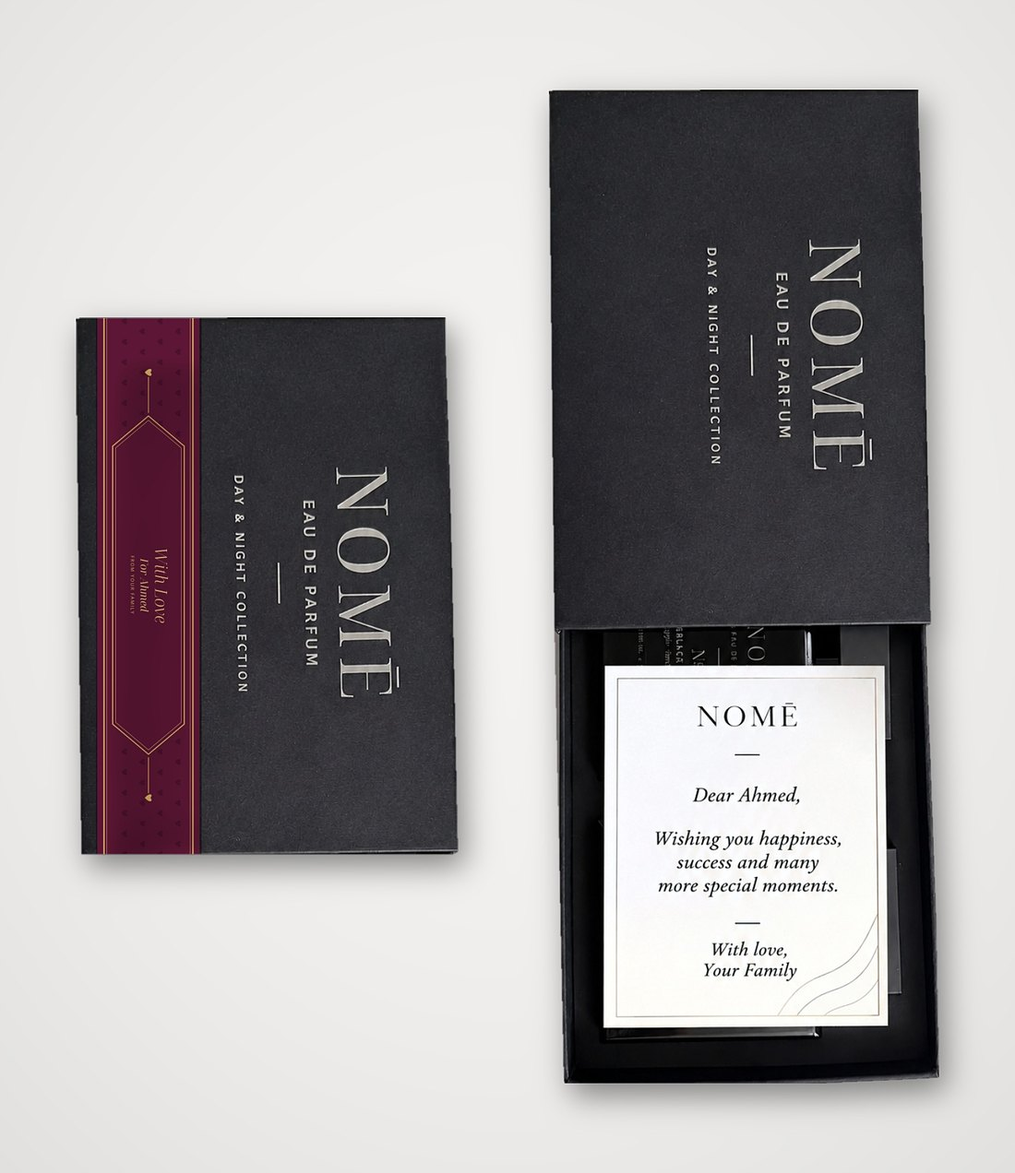
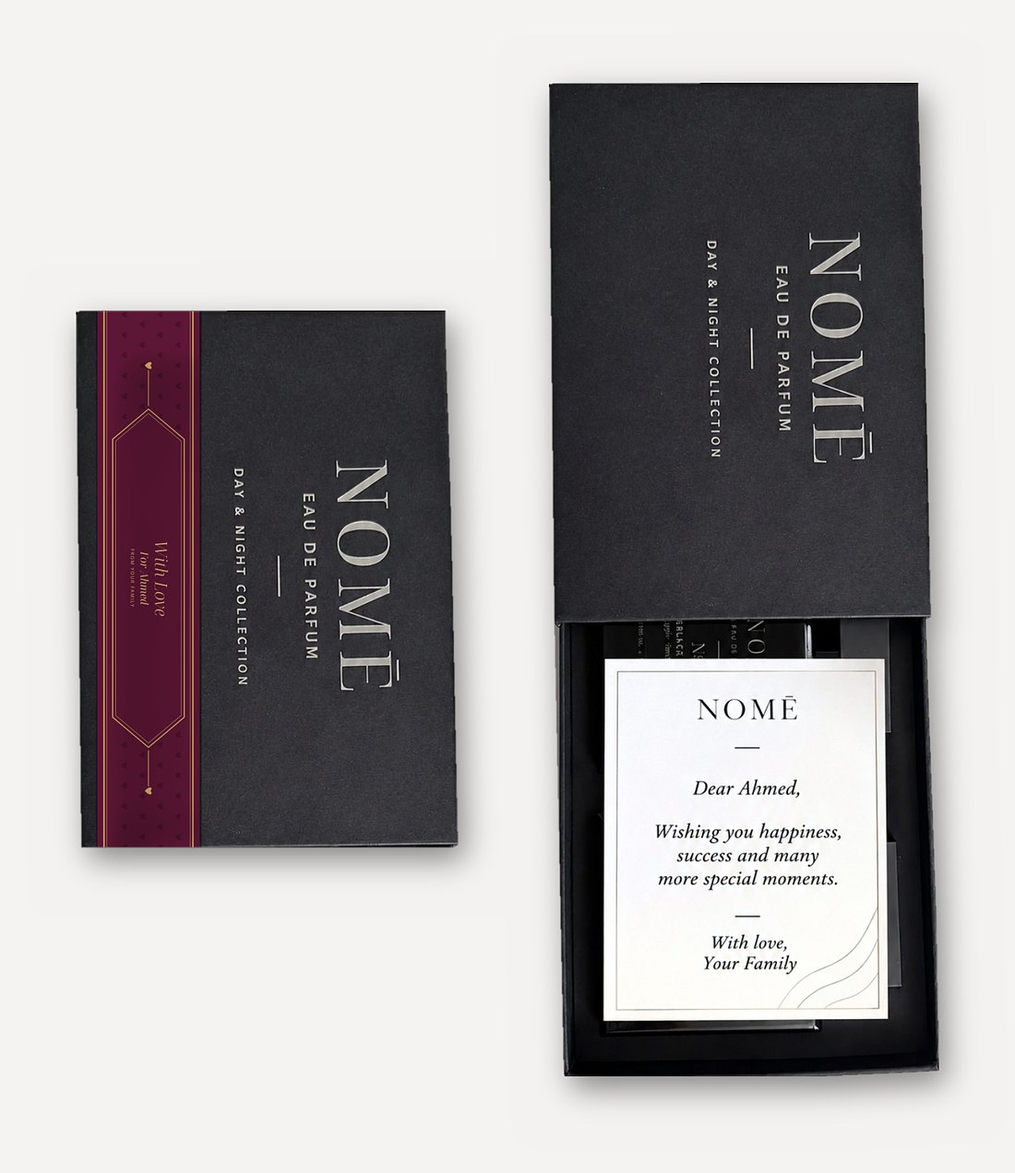
Hero: red band + white card image; A6 portrait card with Dear/sign-off; one-tap band+card print PDF
- Hero now shows the closed box with the With Love band beside the open box with the white message card
- Card redesigned to match: Dear <name>, message, sign-off, A6 portrait 105x148, white
- Personalise: card sign-off field; WhatsApp order includes From: line
- Band Maker: 'Add and download PDF' (band + card for that order), per-order PDF button, sign-off field

Claude-Session: https://claude.ai/code/session_01CbDgQStipMz1LxKXX1LKnJ

diff --git a/band-maker.html b/band-maker.html
@@ -25,7 +25,7 @@ textarea{padding:10px 12px;min-height:110px}
 .order{display:flex;flex-direction:column;gap:8px;border-top:1px solid var(--line);padding-top:12px}
 .order .pv{aspect-ratio:210/40;width:100%}
 .order .pv svg{width:100%;height:100%;display:block}
-.order .cpv{aspect-ratio:148/105;width:min(100%,320px)}
+.order .cpv{aspect-ratio:105/148;width:min(100%,200px)}
 .order .cpv svg{width:100%;height:100%;display:block}
 .meta{font-size:14px;color:var(--muted)}
 .meta b{color:var(--text);font-weight:600}
@@ -40,8 +40,8 @@ textarea{padding:10px 12px;min-height:110px}
 
 <div class="card">
 <h2>1. Paste a WhatsApp order</h2>
-<label for="paste">Order message<textarea id="paste" placeholder="Band: Eid Mubarak&#10;Name: For Ahmed&#10;Message: With love from Sara&#10;Card: Your full message for the card (always last)"></textarea></label>
-<div class="row"><button class="btn" id="addPaste" type="button">Add from message</button><span class="status" id="pasteMsg"></span></div>
+<label for="paste">Order message<textarea id="paste" placeholder="Band: Eid Mubarak&#10;Name: Ahmed&#10;Message: With love from Sara&#10;From: With love, Your Family&#10;Card: Your full message for the card (always last)"></textarea></label>
+<div class="row"><button class="btn" id="addPastePdf" type="button">Add and download PDF</button><button class="btn line" id="addPaste" type="button">Add to list only</button><span class="status" id="pasteMsg"></span></div>
 </div>
 
 <div class="card">
@@ -52,6 +52,7 @@ textarea{padding:10px 12px;min-height:110px}
 <label for="l1">Name line<input id="l1" maxlength="26" placeholder="For Ahmed"></label>
 <label for="l2">Message<input id="l2" maxlength="38" placeholder="With love from Sara"></label>
 <label for="card" style="grid-column:1/-1">Message card (inside the box, optional)<textarea id="card" maxlength="300" placeholder="Full message for the A6 card"></textarea></label>
+<label for="sign" style="grid-column:1/-1">Card sign-off<input id="sign" maxlength="40" placeholder="With love, Your Family"></label>
 <label for="ref">Order ref / customer (not printed on the band)<input id="ref" placeholder="e.g. Sara, 0501234567"></label>
 </div>
 <div class="row"><button class="btn line" id="addManual" type="button">Add band</button></div>
@@ -72,7 +73,7 @@ textarea{padding:10px 12px;min-height:110px}
 </div>
 <p class="status" id="pdfMsg"></p>
 <p class="meta">Each band is one page: 554 × 66 mm with 3 mm bleed, crop marks and dashed fold marks outside the cut line. Print on 300 gsm card, matte lamination, cut to 528 × 40 mm, score the fold marks. The white flap on the left is the glue area.</p>
-<p class="meta">Orders with a message card get a second page straight after the band: 148 × 105 mm (A6) with 3 mm bleed and crop marks. Print on 350 gsm card, matte, cut to 148 × 105 mm.</p>
+<p class="meta">Orders with a message card get a second page straight after the band: 105 × 148 mm (A6 portrait) with 3 mm bleed and crop marks. Print on 350 gsm white card, matte, cut to 105 × 148 mm (A6 portrait).</p>
 </div>
 </div>
 
@@ -95,11 +96,11 @@ function render() {
   if (!orders.length) { $('list').innerHTML = '<p class="empty">No bands yet.</p>'; return; }
   $('list').innerHTML = orders.map((o, i) => `<div class="order">
     <div class="pv">${B.bandSVG(o.design, o.line1, o.line2, 'front')}</div>
-    ${o.card ? `<div class="cpv">${B.cardSVG(o.line1, o.card, 'front', $('ctheme').value)}</div>` : ''}
+    ${o.card ? `<div class="cpv">${B.cardSVG(o.line1, o.card, 'front', $('ctheme').value, o.sign)}</div>` : ''}
     <div class="row" style="justify-content:space-between">
       <span class="meta"><b>${esc(o.no || ('#' + (i + 1)))} · ${esc(B.BY_ID[o.design].name)}</b> × ${o.qty}${o.card ? ' · + card' : ''}${o.ref ? ' · ' + esc(o.ref) : ''}</span>
       <select data-status="${i}" aria-label="Status for ${esc(o.no || '#' + (i + 1))}">${STATUSES.map(s => `<option${(o.status || 'Received') === s ? ' selected' : ''}>${s}</option>`).join('')}</select>
-      <span class="row"><button class="btn line" data-up="${i}" type="button" aria-label="Move up">↑</button><button class="btn line" data-del="${i}" type="button">Remove</button></span>
+      <span class="row"><button class="btn line" data-pdf="${i}" type="button">PDF</button><button class="btn line" data-up="${i}" type="button" aria-label="Move up">↑</button><button class="btn line" data-del="${i}" type="button">Remove</button></span>
     </div></div>`).join('');
   B.fit($('list'));
 }
@@ -107,7 +108,8 @@ try { $('ctheme').value = localStorage.getItem('nome_card_theme') || 'white'; } 
 $('ctheme').addEventListener('change', () => { try { localStorage.setItem('nome_card_theme', $('ctheme').value); } catch (e) {} render(); });
 $('list').addEventListener('change', e => { const s = e.target.closest('[data-status]'); if (!s) return; orders[+s.dataset.status].status = s.value; save(); });
 $('list').addEventListener('click', e => {
-  const d = e.target.closest('[data-del]'), u = e.target.closest('[data-up]');
+  const d = e.target.closest('[data-del]'), u = e.target.closest('[data-up]'), pp = e.target.closest('[data-pdf]');
+  if (pp) { makePDF([+pp.dataset.pdf]); return; }
   if (d) { orders.splice(+d.dataset.del, 1); save(); render(); }
   if (u && +u.dataset.up > 0) { const i = +u.dataset.up; [orders[i - 1], orders[i]] = [orders[i], orders[i - 1]]; save(); render(); }
 });
@@ -116,38 +118,44 @@ function findDesign(name) {
   return B.DESIGNS.find(d => d.name.toLowerCase().replace(/[’']/g, '') === n) ||
          B.DESIGNS.find(d => n && d.name.toLowerCase().replace(/[’']/g, '').startsWith(n.slice(0, 5)));
 }
-$('addPaste').onclick = () => {
+function addFromPaste() {
   const t = $('paste').value;
   const get = k => { const m = t.match(new RegExp('^\\s*' + k + '\\s*:\\s*(.*)$', 'mi')); return m ? m[1].trim() : ''; };
   const d = findDesign(get('Band'));
   if (!d) { $('pasteMsg').textContent = 'Could not find "Band:" in the message.'; return; }
   const clean = v => (v === '-' ? '' : v);
   const cm = t.match(/^\s*Card\s*:\s*([\s\S]*)$/mi), card = cm ? clean(cm[1].trim()).slice(0, 300) : '';
-  orders.push({ no: nextNo(), status: 'Received', design: d.id, line1: clean(get('Name')), line2: clean(get('Message')), card, qty: 1, ref: '' });
+  orders.push({ no: nextNo(), status: 'Received', design: d.id, line1: clean(get('Name')), line2: clean(get('Message')), sign: clean(get('From')).slice(0, 40), card, qty: 1, ref: '' });
   save(); render(); $('paste').value = ''; $('pasteMsg').textContent = 'Added: ' + d.name;
-};
+  return orders.length - 1;
+}
+$('addPaste').onclick = () => { addFromPaste(); };
+$('addPastePdf').onclick = () => { const i = addFromPaste(); if (i !== undefined) makePDF([i]); };
 $('addManual').onclick = () => {
-  orders.push({ no: nextNo(), status: 'Received', design: $('design').value, line1: $('l1').value.trim(), line2: $('l2').value.trim(), card: $('card').value.trim(), qty: Math.max(1, +$('qty').value || 1), ref: $('ref').value.trim() });
-  save(); render(); $('l1').value = $('l2').value = $('ref').value = $('card').value = ''; $('qty').value = 1;
+  orders.push({ no: nextNo(), status: 'Received', design: $('design').value, line1: $('l1').value.trim(), line2: $('l2').value.trim(), card: $('card').value.trim(), sign: $('sign').value.trim(), qty: Math.max(1, +$('qty').value || 1), ref: $('ref').value.trim() });
+  save(); render(); $('l1').value = $('l2').value = $('ref').value = $('card').value = $('sign').value = ''; $('qty').value = 1;
 };
 $('clear').onclick = () => { if (orders.length && confirmClear()) { orders = []; save(); render(); } };
 function confirmClear() { $('clear').textContent = 'Tap again to clear'; if ($('clear').dataset.armed) { delete $('clear').dataset.armed; $('clear').textContent = 'Clear all'; return true; } $('clear').dataset.armed = 1; setTimeout(() => { delete $('clear').dataset.armed; $('clear').textContent = 'Clear all'; }, 3000); return false; }
 
-$('pdf').onclick = async () => {
-  if (!orders.length) { $('pdfMsg').textContent = 'Add at least one band first.'; return; }
-  const total = orders.reduce((a, o) => a + (o.qty || 1) * (o.card ? 2 : 1), 0);
+async function makePDF(idx) {
+  const sel = idx ? idx.map(i => orders[i]) : orders;
+  if (!sel.length) { $('pdfMsg').textContent = 'Add at least one band first.'; return; }
+  const total = sel.reduce((a, o) => a + (o.qty || 1) * (o.card ? 2 : 1), 0);
   $('pdf').disabled = true; $('pdfMsg').textContent = 'Making PDF…';
   try {
     await document.fonts.ready;
-    let n = 0;
-    const list = orders.map((o, i) => ({ ...o, cardName: o.line1, label: `${$('batch').value} · ${o.no || '#' + (i + 1)} · ${B.BY_ID[o.design].name} · ${o.line1 || ''}${o.qty > 1 ? ' · ×' + o.qty : ''}` }));
+    const list = sel.map(o => ({ ...o, cardName: o.line1, cardSign: o.sign || '', label: `${$('batch').value} · ${o.no} · ${B.BY_ID[o.design].name} · ${o.line1 || ''}${o.qty > 1 ? ' · ×' + o.qty : ''}` }));
     const pdf = await B.exportPDF(list, { fontBase: 'fonts/', dpi: 500, cardTheme: $('ctheme').value, onProgress: p => { $('pdfMsg').textContent = `Making PDF… ${p} of ${total}`; } });
-    pdf.save(`${$('batch').value.replace(/[^\w\-]+/g, '_')}_${total}_pages.pdf`);
-    orders.forEach(o => { if (!o.status || o.status === 'Received') o.status = 'Artwork ready'; }); save(); render();
-    $('pdfMsg').textContent = `Done: ${total} page${total > 1 ? 's' : ''} (bands and cards). Send the PDF to the printer, then set the status to "Sent to printer".`;
+    const name = sel.length === 1 ? `${sel[0].no}_${(sel[0].line1 || 'order').replace(/[^\w\-]+/g, '_')}` : `${$('batch').value.replace(/[^\w\-]+/g, '_')}_${total}_pages`;
+    pdf.save(name + '.pdf');
+    sel.forEach(o => { if (!o.status || o.status === 'Received') o.status = 'Artwork ready'; }); save(); render();
+    $('pdfMsg').textContent = `Done: ${total} page${total > 1 ? 's' : ''} (band${sel.some(o => o.card) ? ' + card' : ''}). Send the PDF to the printer, then set the status to "Sent to printer".`;
+    $('pdfMsg').scrollIntoView({ behavior: 'smooth', block: 'center' });
   } catch (e) { $('pdfMsg').textContent = 'Something went wrong: ' + e.message; }
   $('pdf').disabled = false;
-};
+}
+$('pdf').onclick = () => makePDF();
 render();
 document.fonts.ready.then(render);
 </script>

diff --git a/js/bands.js b/js/bands.js
@@ -175,8 +175,8 @@
   }
 
 
-  /* ---------- message card (A6 landscape, sits on top of the bottles) ---------- */
-  const CW = 148, CH = 105, CWB = CW + 2 * BLEED, CHB = CH + 2 * BLEED, CSW = CWB + 2 * SLUG, CSH = CHB + 2 * SLUG;
+  /* ---------- message card (A6 portrait 105 x 148 mm, sits on top of the bottles) ---------- */
+  const CW = 105, CH = 148, CWB = CW + 2 * BLEED, CHB = CH + 2 * BLEED, CSW = CWB + 2 * SLUG, CSH = CHB + 2 * SLUG;
   let mctx;
   function measure(text, font) { mctx = mctx || document.createElement('canvas').getContext('2d'); mctx.font = font; return mctx.measureText(text).width; }
   function wrap(text, size, maxW) {
@@ -192,34 +192,60 @@
     while (out.length && !out[out.length - 1]) out.pop();
     return out;
   }
-  const CARD_THEMES = { white: { bg: '#FFFFFF', ink: '#1A1A1D', name: '#0D0D0F' }, black: { bg: '#121215', ink: '#D3D5DA', name: '#FFFFFF' } };
-  function cardInner(name, message, theme) {
-    const T = CARD_THEMES[theme] || CARD_THEMES.white, cx = CWB / 2, ink = T.ink, B = BLEED;
+  const CARD_THEMES = {
+    white: { bg: '#FFFFFF', ink: '#141416', soft: '#3A3A40', frame: '#B4B4BA' },
+    black: { bg: '#121215', ink: '#F2F2F4', soft: '#D3D5DA', frame: '#6E6E76' }
+  };
+  const isArabic = t => /[-ۿ]/.test(t || '');
+  function greeting(name) {
+    const n = String(name || '').trim().replace(/^for\s+/i, '');
+    if (!n) return '';
+    return isArabic(n) ? n + '،' : 'Dear ' + n + ',';
+  }
+  function signLines(sign) {
+    const t = String(sign || '').trim(); if (!t) return [];
+    if (t.includes('\n')) return t.split(/\r?\n/).map(x => x.trim()).filter(Boolean).slice(0, 2);
+    const i = t.indexOf(','); return i > 0 && i < t.length - 1 ? [t.slice(0, i + 1), t.slice(i + 1).trim()] : [t];
+  }
+  function cardInner(name, message, theme, sign) {
+    const T = CARD_THEMES[theme] || CARD_THEMES.white, cx = CWB / 2, B = BLEED;
+    const it = (y, txt, size, fill, max) => `<text x="${cx}" y="${f2(y)}"${max ? ` data-max="${max}"` : ''} text-anchor="middle" font-family="'NSD', 'ARQ', serif" font-style="italic" font-weight="300" font-size="${f2(size)}" fill="${fill}" dir="auto">${esc(txt)}</text>`;
     let s = `<rect width="${CWB}" height="${CHB}" fill="${T.bg}"/>`;
-    s += `<rect x="${B + 6}" y="${B + 6}" width="${CW - 12}" height="${CH - 12}" fill="none" stroke="${ink}" stroke-width=".25" opacity=".55"/>`;
-    s += `<text x="${cx}" y="${B + 17}" text-anchor="middle" font-family="'NSD', serif" font-weight="300" font-size="6.2" letter-spacing="1.3" fill="${ink}">NOMĒ</text>`;
-    s += `<line x1="${cx - 5}" y1="${B + 21}" x2="${cx + 5}" y2="${B + 21}" stroke="${ink}" stroke-width=".25"/>`;
-    let top = B + 25, bottom = B + CH - 12;
-    if (name) { s += `<text x="${cx}" y="${B + 33}" text-anchor="middle" font-family="'NSD', 'ARQ', serif" font-size="7.2" fill="${T.name}" data-max="110" dir="auto">${esc(name)}</text>`; top = B + 38; }
-    let size = 5.2, lines = wrap(message, size, 112);
-    while (size > 2.9 && lines.length * size * 1.45 > bottom - top) { size -= .2; lines = wrap(message, size, 112); }
-    const lh = size * 1.45, y0 = top + (bottom - top - lines.length * lh) / 2 + size;
-    lines.forEach((l, i) => { s += `<text x="${cx}" y="${f2(y0 + i * lh)}" text-anchor="middle" font-family="'NSD', 'ARQ', serif" font-style="italic" font-weight="300" font-size="${f2(size)}" fill="${ink}" dir="auto">${esc(l)}</text>`; });
-    s += `<text x="${cx}" y="${B + CH - 9}" text-anchor="middle" font-family="'OS', sans-serif" font-size="2" letter-spacing=".9" fill="${ink}" opacity=".7">DAY &amp; NIGHT COLLECTION</text>`;
+    s += `<rect x="${B + 5}" y="${B + 5}" width="${CW - 10}" height="${CH - 10}" fill="none" stroke="${T.frame}" stroke-width=".3"/>`;
+    // waves, bottom right
+    const wx = B + CW - 5, wy = B + CH - 5;
+    for (let k = 0; k < 3; k++) { const o = k * 3.2; s += `<path d="M${f2(wx - 30 - o)} ${f2(wy)} C ${f2(wx - 18 - o)} ${f2(wy - 4 - o)}, ${f2(wx - 14)} ${f2(wy - 14 - o)}, ${f2(wx)} ${f2(wy - 24 - o)}" fill="none" stroke="${T.frame}" stroke-width=".22"/>`; }
+    s += `<text x="${cx}" y="${B + 22}" text-anchor="middle" font-family="'NSD', serif" font-weight="300" font-size="8" letter-spacing="1.6" fill="${T.ink}">NOMĒ</text>`;
+    s += `<line x1="${cx - 4.5}" y1="${B + 30}" x2="${cx + 4.5}" y2="${B + 30}" stroke="${T.ink}" stroke-width=".3"/>`;
+    const g = greeting(name), sl = signLines(sign);
+    const areaTop = B + 38, areaBot = B + CH - 14;
+    let size = 5.4, lines, total;
+    const measureBlock = () => { lines = wrap(message, size, 80); const lh = size * 1.42; total = (g ? 5.6 + 8 : 0) + lines.length * lh + (sl.length ? 8 + 9 + sl.length * 7 : 0); };
+    measureBlock();
+    while (size > 3.2 && total > areaBot - areaTop) { size -= .2; measureBlock(); }
+    const lh = size * 1.42;
+    let y = areaTop + Math.max(0, (areaBot - areaTop - total) / 2);
+    if (g) { s += it(y + 5.6 * .8, g, 5.6, T.ink, 84); y += 5.6 + 8; }
+    lines.forEach((l, i) => { s += it(y + size * .8 + i * lh, l, size, T.ink); });
+    y += lines.length * lh;
+    if (sl.length) {
+      y += 6; s += `<line x1="${cx - 4.5}" y1="${f2(y)}" x2="${cx + 4.5}" y2="${f2(y)}" stroke="${T.ink}" stroke-width=".3"/>`; y += 9;
+      sl.forEach((l, i) => { s += it(y + 5.2 * .8 + i * 7, l, 5.2, T.ink, 84); });
+    }
     return s;
   }
-  function cardSVG(name, message, mode, theme) {
+  function cardSVG(name, message, mode, theme, sign) {
     const vb = mode === 'full' ? `0 0 ${CWB} ${CHB}` : `${BLEED} ${BLEED} ${CW} ${CH}`;
-    return `<svg xmlns="http://www.w3.org/2000/svg" viewBox="${vb}" preserveAspectRatio="xMidYMid meet">${cardInner(name, message, theme)}</svg>`;
+    return `<svg xmlns="http://www.w3.org/2000/svg" viewBox="${vb}" preserveAspectRatio="xMidYMid meet">${cardInner(name, message, theme, sign)}</svg>`;
   }
-  function cardSheetSVG(name, message, label, fontStyle, theme) {
+  function cardSheetSVG(name, message, label, fontStyle, theme, sign) {
     const t0x = SLUG + BLEED, t0y = SLUG + BLEED, t1x = t0x + CW, t1y = t0y + CH;
     let m = '';
     const ln = (a, b, c, d2) => `<line x1="${f2(a)}" y1="${f2(b)}" x2="${f2(c)}" y2="${f2(d2)}" stroke="#000" stroke-width=".2"/>`;
     for (const [x, y, dx, dy] of [[t0x, t0y, -1, -1], [t1x, t0y, 1, -1], [t0x, t1y, -1, 1], [t1x, t1y, 1, 1]]) m += ln(x, y + dy * 4, x, y + dy * 9) + ln(x + dx * 4, y, x + dx * 9, y);
-    m += `<text x="${t0x}" y="${SLUG - 4.5}" font-family="'OS', sans-serif" font-size="2.4" fill="#000">${esc(label)}</text>`;
-    m += `<text x="${t1x}" y="${CSH - 3}" text-anchor="end" font-family="'OS', sans-serif" font-size="2" fill="#000">Message card · 148 × 105 mm trim · 3 mm bleed · 350 gsm · matte</text>`;
-    return `<svg xmlns="http://www.w3.org/2000/svg" width="${CSW}mm" height="${CSH}mm" viewBox="0 0 ${CSW} ${CSH}">${fontStyle ? `<style>${fontStyle}</style>` : ''}<rect width="${CSW}" height="${CSH}" fill="#fff"/><svg x="${SLUG}" y="${SLUG}" width="${CWB}" height="${CHB}" viewBox="0 0 ${CWB} ${CHB}">${cardInner(name, message, theme)}</svg>${m}</svg>`;
+    m += `<text x="${t0x}" y="${SLUG - 4.5}" font-family="'OS', sans-serif" font-size="2.2" fill="#000">${esc(label)}</text>`;
+    m += `<text x="${t1x}" y="${CSH - 3}" text-anchor="end" font-family="'OS', sans-serif" font-size="1.9" fill="#000">Message card · 105 × 148 mm (A6) trim · 3 mm bleed · 350 gsm white · matte</text>`;
+    return `<svg xmlns="http://www.w3.org/2000/svg" width="${CSW}mm" height="${CSH}mm" viewBox="0 0 ${CSW} ${CSH}">${fontStyle ? `<style>${fontStyle}</style>` : ''}<rect width="${CSW}" height="${CSH}" fill="#fff"/><svg x="${SLUG}" y="${SLUG}" width="${CWB}" height="${CHB}" viewBox="0 0 ${CWB} ${CHB}">${cardInner(name, message, theme, sign)}</svg>${m}</svg>`;
   }
 
   // shrink any line that is wider than its limit (needs the svg in the DOM)
@@ -271,10 +297,10 @@
         pdf.addImage(canvas.toDataURL('image/jpeg', .94), 'JPEG', 0, 0, SW, SH, undefined, 'FAST');
         if (opts.onProgress) opts.onProgress(page);
         if (o.card) {
-          holder.innerHTML = cardSheetSVG(o.cardName || '', o.card, (o.label || '') + ' · message card', css, o.cardTheme || opts.cardTheme);
+          holder.innerHTML = cardSheetSVG(o.cardName || '', o.card, (o.label || '') + ' · message card', css, o.cardTheme || opts.cardTheme, o.cardSign || '');
           const ce = holder.firstElementChild; fit(ce);
           const cc = await sheetToCanvas(ce, Math.min(dpi, 400), CSW, CSH);
-          pdf.addPage([CSW, CSH], 'landscape');
+          pdf.addPage([CSW, CSH], 'portrait');
           pdf.addImage(cc.toDataURL('image/jpeg', .94), 'JPEG', 0, 0, CSW, CSH, undefined, 'FAST'); page++;
         }
       }
@@ -283,5 +309,5 @@
     return pdf;
   }
 
-  window.NOME_BANDS = { DESIGNS, BY_ID, bandSVG, sheetSVG, cardSVG, fit, fontCSS, exportPDF, SHEET_MM: [SW, SH], CARD_MM: [CW, CH] };
+  window.NOME_BANDS = { DESIGNS, BY_ID, bandSVG, sheetSVG, cardSVG, fit, fontCSS, exportPDF, SHEET_MM: [SW, SH], CARD_MM: [CW, CH], greeting };
 })();

diff --git a/index.html b/index.html
@@ -40,7 +40,7 @@
 </header>
 
 <main>
-<div class="hero-img"><picture><source media="(max-width: 700px)" srcset="images/hero-boxes-mobile.jpg" width="1080" height="1240"><img src="images/hero-boxes.jpg" alt="The NOMĒ gift box closed with a personalised Eid band, and open showing No.1 Black Birch and No.2 Amber Leaf in black foam" width="2880" height="1440" fetchpriority="high"></picture></div>
+<div class="hero-img"><picture><source media="(max-width: 700px)" srcset="images/hero-boxes-mobile.jpg" width="1080" height="1249"><img src="images/hero-boxes.jpg" alt="The NOMĒ gift box closed with a burgundy With Love band for Ahmed, beside the open box with a white message card reading Dear Ahmed" width="2400" height="1500" fetchpriority="high"></picture></div>
 <div class="wrap hero">
 <div class="hero-text">
 <p class="eyebrow">The NOMĒ Day &amp; Night Collection</p>
@@ -114,7 +114,9 @@
 <label for="rname"><span class="lbl"><span>Recipient's name</span><span id="c1"></span></span><input id="rname" autocomplete="off" placeholder="Ahmed" dir="auto"></label>
 <label for="rmsg"><span class="lbl"><span>Your personal message (optional)</span><span id="c2"></span></span><input id="rmsg" autocomplete="off" placeholder="With love, from your family" dir="auto"></label>
 <p class="hint">English or Arabic. Long names shrink to fit the band.</p>
-<label for="rcard"><span class="lbl"><span>Message card inside the box (optional)</span><span id="c3"></span></span><textarea id="rcard" rows="4" placeholder="Write your full message. It is printed on a card that sits on top of the fragrances, under the seal." dir="auto"></textarea></label>
+<label for="rcard"><span class="lbl"><span>Message card inside the box (optional)</span><span id="c3"></span></span><textarea id="rcard" rows="4" placeholder="Wishing you happiness, success and many more special moments." dir="auto"></textarea></label>
+<label for="rsign"><span class="lbl"><span>Card sign-off</span><span id="c4"></span></span><input id="rsign" autocomplete="off" placeholder="With love, Your Family" dir="auto"></label>
+<p class="hint">The card opens with "Dear" and their name, then your message and sign-off.</p>
 <div class="stack" style="gap:8px"><p class="eyebrow" style="font-size:12px">Card preview</p><div class="cardpv" id="cardPv" role="img" aria-label="Preview of the message card"></div></div>
 <div class="stack" style="gap:10px">
 <a class="btn btn-fill" data-cta="gift" data-placement="personalise" href="#personalise" style="min-height:56px">Register your interest</a>
@@ -142,7 +144,7 @@
 </div>
 
 <div class="row" style="gap:48px;align-items:center">
-<img src="images/box-band-card.jpg" alt="Closed NOMĒ gift box with a burgundy With Love band for Ahmed, beside the open box with a white message card reading Dear Ahmed" width="1100" height="1272" loading="lazy" style="flex:1 1 380px;min-width:0;max-width:600px;height:auto">
+<img src="images/real-band.jpg" alt="NOMĒ gift box with a burgundy With Love band next to the open drawer with both fragrances" width="1100" height="1412" loading="lazy" style="flex:1 1 380px;min-width:0;max-width:600px;height:auto">
 <div class="features col" style="flex:1 1 380px;min-width:0;flex-direction:column">
 <div class="feature"><span>01</span><h3>Slide-out drawer</h3><p class="body">A matte black box with silver foil and a ribbon pull.</p></div>
 <div class="feature"><span>02</span><h3>Their band</h3><p class="body">The band wraps the box and holds the drawer closed.</p></div>
@@ -150,10 +152,7 @@
 <div class="feature"><span>04</span><h3>Your card</h3><p class="body">Your full message on a white card, waiting on top of the fragrances.</p></div>
 </div>
 </div>
-<div class="gal">
-<img src="images/real-angle.jpg" alt="The NOMĒ gift box with a With Love band, beside an open box showing No.1 Black Birch and No.2 Amber Leaf" width="2000" height="1195" loading="lazy">
-<img src="images/real-band.jpg" alt="NOMĒ gift box with a burgundy With Love band next to the open drawer with both fragrances" width="1100" height="1412" loading="lazy">
-</div>
+<img src="images/real-angle.jpg" alt="The NOMĒ gift box with a With Love band, beside an open box showing No.1 Black Birch and No.2 Amber Leaf" width="2000" height="1195" loading="lazy" style="width:100%;height:auto">
 </div>
 </section>
 
@@ -203,17 +202,17 @@
 (function () {
   const B = NOME_BANDS, C = window.NOME_CONFIG, $ = id => document.getElementById(id);
   document.head.insertAdjacentHTML('beforeend', '<style>' + B.fontCSS('fonts/') + '</style>');
-  $('rname').maxLength = C.nameMax; $('rmsg').maxLength = C.messageMax; $('rcard').maxLength = C.cardMax || 300;
+  $('rname').maxLength = C.nameMax; $('rmsg').maxLength = C.messageMax; $('rcard').maxLength = C.cardMax || 300; $('rsign').maxLength = C.signMax || 40;
   let sel = 'eid', started = false, completed = false;
-  const v = () => ({ name: $('rname').value.trim(), message: $('rmsg').value.trim(), card: $('rcard').value.trim() });
+  const v = () => ({ name: $('rname').value.trim(), message: $('rmsg').value.trim(), card: $('rcard').value.trim(), sign: $('rsign').value.trim() });
   window.nomeGift = () => ({ design: sel, designName: B.BY_ID[sel].name, ...v() });
   function draw() {
     const g = v(), shownName = g.name || 'Ahmed', shownMsg = g.message || (g.name ? '' : 'With love, from your family');
     const svg = B.bandSVG(sel, shownName, shownMsg, 'front');
     $('boxBand').innerHTML = svg; B.fit($('boxBand'));
     if ($('bigView').open) { $('bigBand').innerHTML = svg; B.fit($('bigBand')); }
-    $('cardPv').innerHTML = B.cardSVG(g.name || 'Ahmed', g.card || 'Wishing you every happiness. One fragrance for your days, one for your nights. With love, Sara', 'front', C.cardTheme); B.fit($('cardPv'));
-    $('c3').textContent = `${g.card.length}/${C.cardMax || 300}`;
+    $('cardPv').innerHTML = B.cardSVG(g.name || 'Ahmed', g.card || 'Wishing you happiness, success and many more special moments.', 'front', C.cardTheme, g.card ? g.sign : (g.sign || 'With love, Your Family')); B.fit($('cardPv'));
+    $('c3').textContent = `${g.card.length}/${C.cardMax || 300}`; $('c4').textContent = `${g.sign.length}/${C.signMax || 40}`;
     $('c1').textContent = `${g.name.length}/${C.nameMax}`; $('c2').textContent = `${g.message.length}/${C.messageMax}`;
     $('designName').textContent = 'Occasion: ' + B.BY_ID[sel].name;
     document.querySelectorAll('.thumb').forEach(t => t.setAttribute('aria-pressed', t.dataset.id === sel));
@@ -221,7 +220,7 @@
   }
   $('thumbs').innerHTML = B.DESIGNS.map(d => `<button type="button" class="thumb" data-id="${d.id}" aria-pressed="false"><span class="tb">${B.bandSVG(d.id, '', '', 'front')}</span>${d.name}</button>`).join('');
   $('thumbs').addEventListener('click', e => { const t = e.target.closest('.thumb'); if (!t) return; sel = t.dataset.id; nomeTrack('band_design_select', { design: sel }); draw(); });
-  ['rname', 'rmsg', 'rcard'].forEach(id => $(id).addEventListener('input', () => {
+  ['rname', 'rmsg', 'rcard', 'rsign'].forEach(id => $(id).addEventListener('input', () => {
     if (!started) { started = true; nomeTrack('personalisation_start', { design: sel }); }
     draw();
   }));

diff --git a/js/site.js b/js/site.js
@@ -43,13 +43,13 @@
       let url = C.partner.url;
       const g = giftDetails();
       if (kind === 'gift' && g && C.partner.passesPersonalisation) {
-        const u = new URL(url); u.searchParams.set('occasion', g.design); if (g.name) u.searchParams.set('name', g.name); if (g.message) u.searchParams.set('message', g.message); if (g.card) u.searchParams.set('card', g.card); url = u.toString();
+        const u = new URL(url); u.searchParams.set('occasion', g.design); if (g.name) u.searchParams.set('name', g.name); if (g.message) u.searchParams.set('message', g.message); if (g.card) u.searchParams.set('card', g.card); if (g.card && g.sign) u.searchParams.set('signoff', g.sign); url = u.toString();
       }
       a.href = url; a.target = '_blank'; a.rel = 'noopener';
     } else {
       a.textContent = 'Register your interest';
       const g = kind === 'gift' ? giftDetails() : null;
-      const t = g ? `Hi NOMĒ, please let me know when the Day & Night gift box is available.\nBand: ${g.designName}\nName: ${g.name || '-'}\nMessage: ${g.message || '-'}\nCard: ${g.card || '-'}`
+      const t = g ? `Hi NOMĒ, please let me know when the Day & Night gift box is available.\nBand: ${g.designName}\nName: ${g.name || '-'}\nMessage: ${g.message || '-'}\nFrom: ${g.sign || '-'}\nCard: ${g.card || '-'}`
                   : 'Hi NOMĒ, please let me know when the Day & Night gift box is available.';
       a.href = wa(t); a.target = '_blank'; a.rel = 'noopener';
     }

diff --git a/css/site.css b/css/site.css
@@ -121,7 +121,7 @@ footer .wrap{padding:56px 32px 40px;display:flex;flex-direction:column;gap:40px}
 }
 
 /* message card preview + real photo gallery */
-.cardpv{width:100%;max-width:460px;aspect-ratio:148/105;box-shadow:0 24px 50px rgba(0,0,0,.5);border:1px solid #26262C}
+.cardpv{width:100%;max-width:320px;aspect-ratio:105/148;box-shadow:0 24px 50px rgba(0,0,0,.5);border:1px solid #26262C}
 .cardpv svg{width:100%;height:100%}
 .gal{display:grid;grid-template-columns:minmax(0,1.68fr) minmax(0,1fr);gap:16px}
 .gal img{width:100%;height:100%;object-fit:cover}

diff --git a/js/config.js b/js/config.js
@@ -40,6 +40,7 @@ window.NOME_CONFIG = {
   nameMax: 26,
   messageMax: 38,
   cardMax: 300,                     // message card inside the box
+  signMax: 40,                      // card sign-off, e.g. 'With love, Your Family'
   cardTheme: 'white',               // 'white' (black text) or 'black' (silver text)
 
   /* ANALYTICS — loaded only after the visitor accepts cookies */
